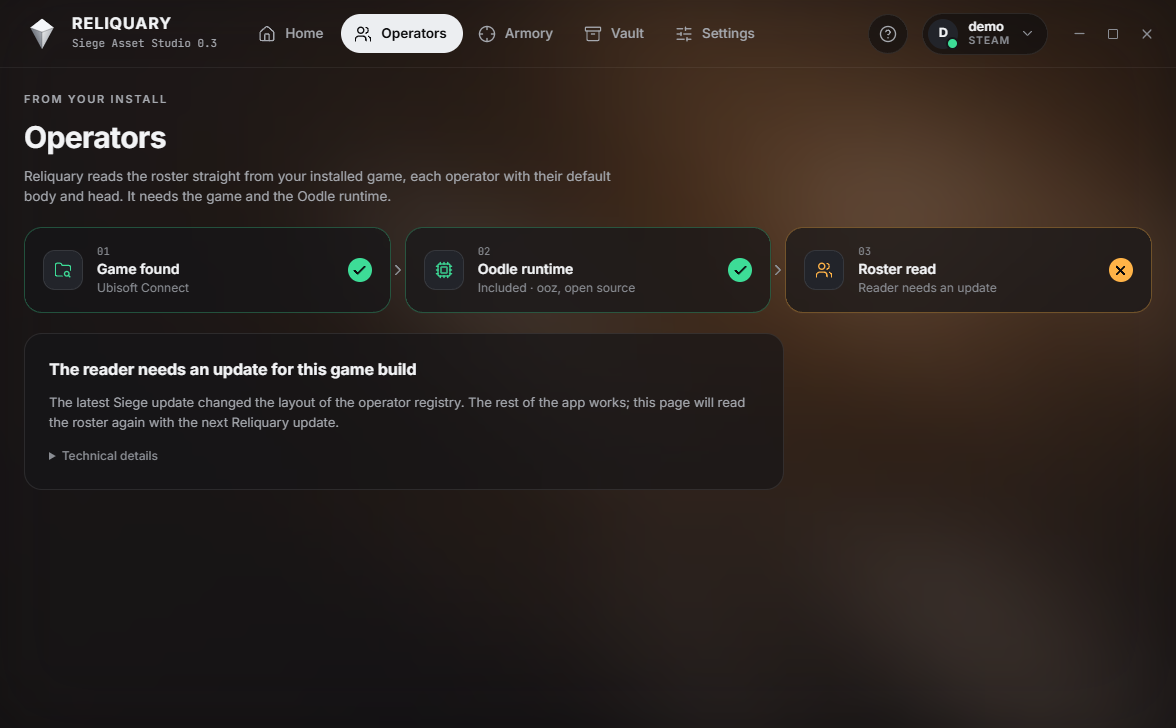
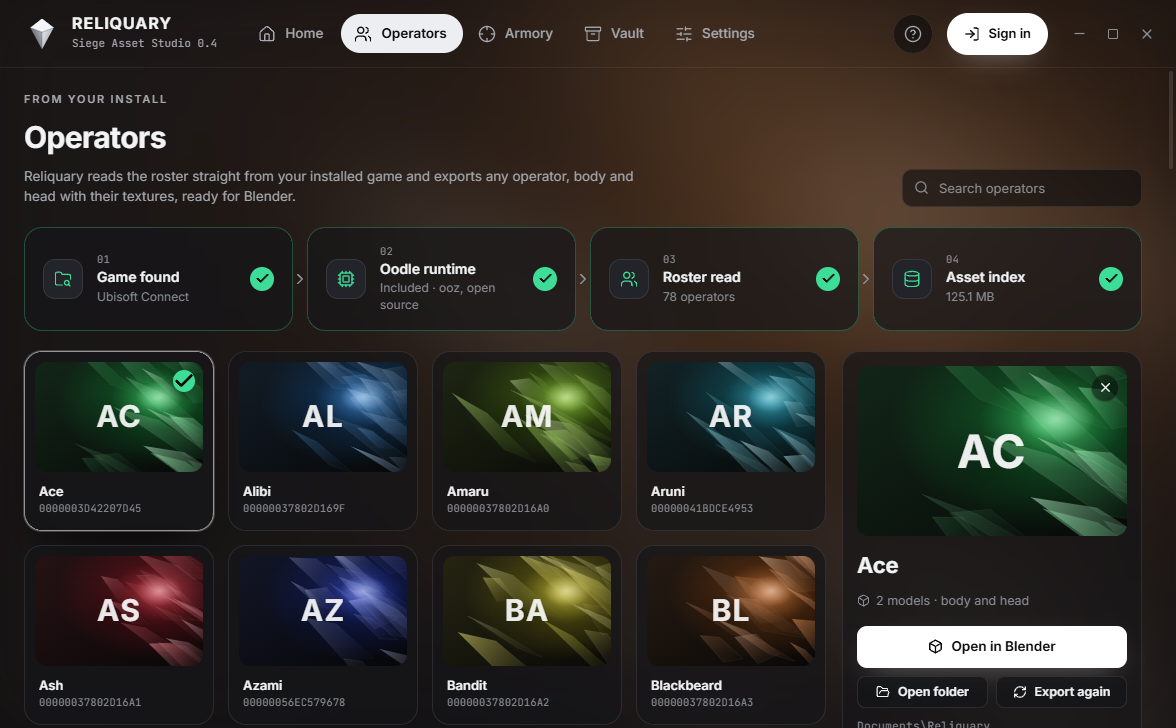
Release 0.4.0: operators export and open in Blender, version from package.json

diff --git a/src/renderer/src/i18n.tsx b/src/renderer/src/i18n.tsx
@@ -18,7 +18,7 @@ const en: Record<string, string> = {
 
   'home.prev': 'Previous',
   'home.next': 'Next',
-  'home.welcome': 'RELIQUARY 0.3 · PREVIEW',
+  'home.welcome': 'RELIQUARY {version} · PREVIEW',
   'slide.vault.eyebrow': 'Retired content · Steam depots',
   'slide.vault.title': 'Every season,',
   'slide.vault.title2': 'still in the vault',
@@ -330,7 +330,7 @@ const it: Record<string, string> = {
 
   'home.prev': 'Precedente',
   'home.next': 'Successiva',
-  'home.welcome': 'RELIQUARY 0.3 · ANTEPRIMA',
+  'home.welcome': 'RELIQUARY {version} · ANTEPRIMA',
   'slide.vault.eyebrow': 'Contenuti ritirati · depot Steam',
   'slide.vault.title': 'Ogni stagione,',
   'slide.vault.title2': "ancora nell'archivio",

diff --git a/src/renderer/src/pages/Home.tsx b/src/renderer/src/pages/Home.tsx
@@ -74,7 +74,7 @@ export default function Home({ go, setArt, status, openSeason }: PageProps) {
         </div>
         <div className="hero-body" key={slide.id}>
           <span className="welcome" style={{ '--i': 0 } as React.CSSProperties}>
-            <Mark size={14} /> {t('home.welcome')}
+            <Mark size={14} /> {t('home.welcome', { version: __VERSION__.replace(/\.0$/, '') })}
           </span>
           <div className="eyebrow" style={{ '--i': 1 } as React.CSSProperties}>
             {t(`slide.${slide.id}.eyebrow`)}

diff --git a/electron.vite.config.ts b/electron.vite.config.ts
@@ -1,8 +1,10 @@
 import { defineConfig, externalizeDepsPlugin } from 'electron-vite'
 import react from '@vitejs/plugin-react'
+import { version } from './package.json'
 
 export default defineConfig({
   main: { plugins: [externalizeDepsPlugin()] },
   preload: { plugins: [externalizeDepsPlugin()] },
-  renderer: { plugins: [react()] }
+  // the one place the version lives: package.json
+  renderer: { plugins: [react()], define: { __VERSION__: JSON.stringify(version) } }
 })

diff --git a/src/renderer/src/App.tsx b/src/renderer/src/App.tsx
@@ -94,7 +94,7 @@ export default function App() {
           <Mark />
           <div>
             <b>RELIQUARY</b>
-            <span>{t('brand.tag')} 0.3</span>
+            <span>{t('brand.tag')} {__VERSION__.replace(/\.0$/, '')}</span>
           </div>
         </div>
         <nav className="nav">

diff --git a/src/renderer/src/pages/Settings.tsx b/src/renderer/src/pages/Settings.tsx
@@ -8,7 +8,7 @@ import { Avatar, useSession } from '../session'
 import { ConfirmButton, PageHead, Segmented, Spinner } from '../ui'
 
 const REPO = 'https://github.com/Fialsss/Reliquary'
-const VERSION = '0.3.0'
+const VERSION = __VERSION__
 
 const SECTIONS = [
   ['account', UserRound],

diff --git a/src/renderer/src/env.d.ts b/src/renderer/src/env.d.ts
@@ -1,0 +1,2 @@
+/** package.json's version, set by electron.vite.config.ts */
+declare const __VERSION__: string

diff --git a/engine/reliquary_engine.py b/engine/reliquary_engine.py
@@ -5,5 +5,5 @@ from reliquary import art, env, operators, settings, steam, vault  # noqa: F401 
 from reliquary.rpc import emit, serve
 
 threading.Thread(target=vault.prefetch_tool, daemon=True).start()
-emit("engine.ready", {"version": "0.3.0"})
+emit("engine.ready", {"version": "0.4.0"})
 serve()

diff --git a/README.it.md b/README.it.md
@@ -11,7 +11,7 @@
 
 ![Reliquary in azione](docs/reliquary.gif)
 
-> **Anteprima.** L'Archivio funziona dall'inizio alla fine. Operatori e Armeria sono in costruzione: vedi [Stato](#stato).
+> **Anteprima.** Archivio e Operatori funzionano dall'inizio alla fine. L'Armeria è in costruzione: vedi [Stato](#stato).
 
 ## Download
 
@@ -46,7 +46,7 @@ Per ora gli archivi scaricati restano sul tuo disco. Aprirli e portare skin, arm
 
 **Rilevamento della postazione.** Reliquary trova il gioco tramite Ubisoft Connect o le librerie di Steam, trova Blender e ti dice cosa manca.
 
-**Operatori.** Reliquary legge il roster dalla tua installazione con il motore [R6-parser](https://github.com/TrueShadow01/R6-parser) incluso. La pagina mostra la catena che serve (gioco trovato → runtime Oodle → lettura del roster) e cosa fare quando manca un anello.
+**Operatori.** Reliquary legge il roster dalla tua installazione con il motore [R6-parser](https://github.com/TrueShadow01/R6-parser) incluso ed esporta qualsiasi operatore, corpo e testa di default con le loro texture, in glTF. **Apri in Blender** avvia Blender e lo importa con l'add-on di R6-parser, che ricostruisce i materiali di Siege. La prima volta crea l'indice degli asset (pochi minuti, circa 130 MB); rifallo dopo gli aggiornamenti del gioco.
 
 **Armeria (in sviluppo).** È la catena arma → skin → Blender. Le skin vengono ritrovate seguendo i riferimenti interni del gioco (record cosmetico → selezione materiale → bundle materiale → UID delle texture), mai indovinate dall'aspetto. Ogni skin porterà con sé quella catena come prova.
 
@@ -58,7 +58,7 @@ Per ora gli archivi scaricati restano sul tuo disco. Aprirli e portare skin, arm
 | --- | --- |
 | Archivio: elenco stagioni, accesso Steam con QR, elenco file, download selettivo, annulla, ripresa | Funziona |
 | Rilevamento postazione (Ubisoft Connect, librerie Steam, Blender) | Funziona |
-| Roster operatori | Il lettore va aggiornato all'ultima build del gioco (è cambiato il formato del registro) |
+| Roster operatori, esportazione glTF, apertura in Blender con i materiali di Siege | Funziona (78 operatori sulla build attuale; provato in Blender 5.2) |
 | Armi, accessori, skin, ciondoli, scena Blender con cambia-skin | Metodo dimostrato a mano sul 552 Commando, integrazione nell'app come prossimo passo |
 | Installer e versione portable, senza dipendenze | Funziona |
 | Accesso Steam: codice QR, oppure nome account e password con Steam Guard | Funziona |

diff --git a/README.md b/README.md
@@ -11,7 +11,7 @@
 
 ![Reliquary in action](docs/reliquary.gif)
 
-> **Preview.** The Vault works end to end. Operators and the Armory are being built: see [Status](#status).
+> **Preview.** The Vault and Operators work end to end. The Armory is being built: see [Status](#status).
 
 ## Download
 
@@ -46,7 +46,7 @@ This is how the original **Glacier for the 552 Commando (Y5S4)** was recovered. 
 
 **Workspace detection.** Reliquary finds the game through Ubisoft Connect or your Steam libraries, finds Blender, and tells you what is missing.
 
-**Operators.** Reliquary reads the operator roster from your own install with the bundled [R6-parser](https://github.com/TrueShadow01/R6-parser) engine. The page shows the chain it needs (game found → Oodle runtime → roster read) and what to do when a link is missing.
+**Operators.** Reliquary reads the operator roster from your own install with the bundled [R6-parser](https://github.com/TrueShadow01/R6-parser) engine and exports any operator, default body and head with their textures, as glTF. **Open in Blender** starts Blender and imports it with R6-parser's add-on, which rebuilds the Siege materials. The first time, build the asset index (a few minutes, about 130 MB); do it again after game updates.
 
 **Armory (in development).** This is the weapon → skin → Blender pipeline. Skins are resolved through the game's own references (cosmetic record → material selection → material bundle → texture UIDs), never guessed from how they look. Every skin will carry that chain as proof.
 
@@ -58,7 +58,7 @@ This is how the original **Glacier for the 552 Commando (Y5S4)** was recovered. 
 | --- | --- |
 | Vault: season list, Steam QR sign-in, file list, selective download, cancel, resume | Working |
 | Workspace detection (Ubisoft Connect, Steam libraries, Blender) | Working |
-| Operator roster | Reader needs an update for the latest game build (registry layout changed) |
+| Operator roster, export to glTF, open in Blender with Siege materials | Working (78 operators on the current build; checked in Blender 5.2) |
 | Weapons, attachments, skins, charms, Blender scene with skin switcher | Method proven by hand on the 552 Commando; app integration next |
 | Installer and portable build, no dependencies | Working |
 | Steam sign-in: QR code, or account name and password with Steam Guard | Working |

diff --git a/THIRD_PARTY.md b/THIRD_PARTY.md
@@ -4,6 +4,7 @@
 
 - Source: https://github.com/TrueShadow01/R6-parser
 - Vendored in `engine/r6parser/src`, unmodified, from commit `20b4cae8fc4d3c3e65d0c6f0fb52a605bae795ca` (2026-09-22)
+- Also vendored, unmodified: its Blender add-on in `engine/r6parser/blender_addon/io_scene_r6`. Reliquary runs its import function (Siege materials) inside Blender when you open an exported operator.
 - License: GNU GPL-3.0. Reliquary as a whole is distributed under the same license (see `LICENSE`).
 
 ## ooz (Kraken / Leviathan decoder)
